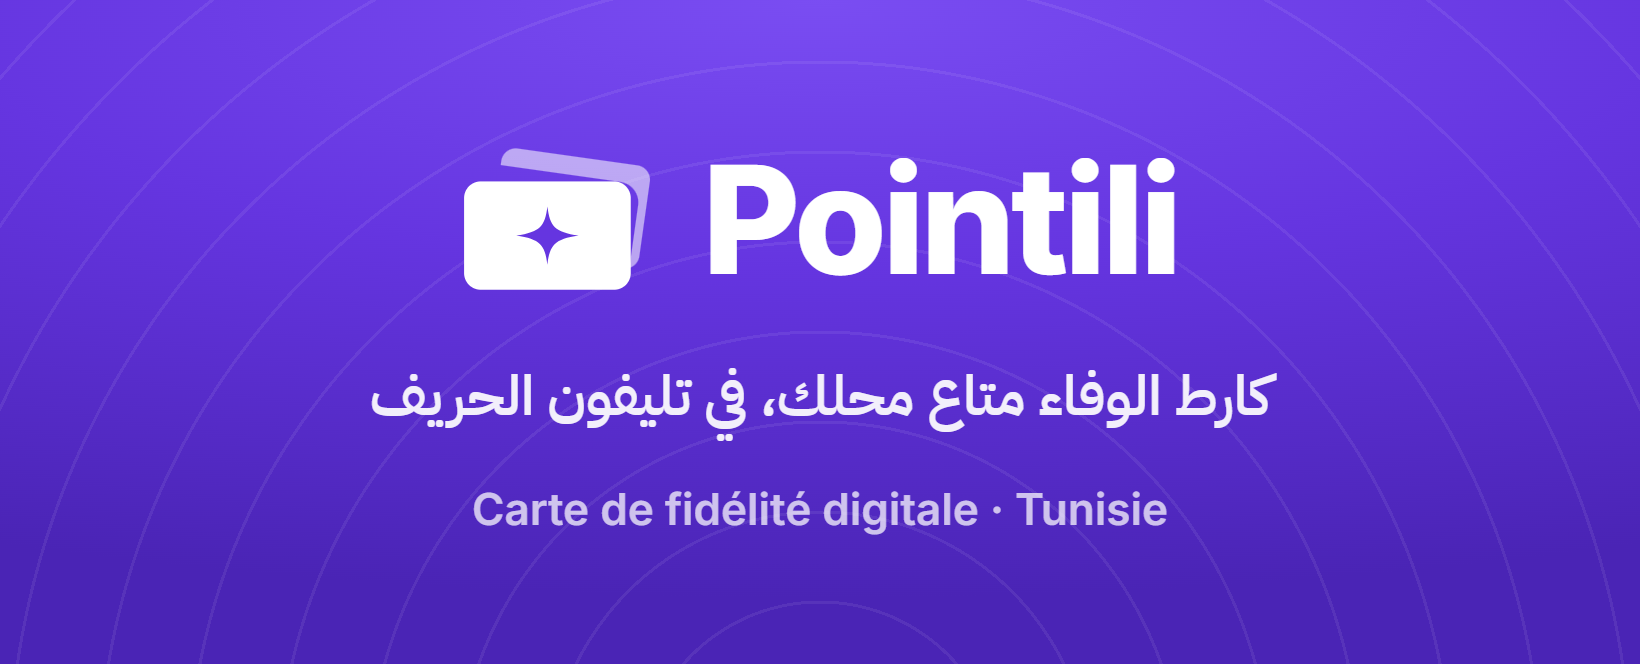
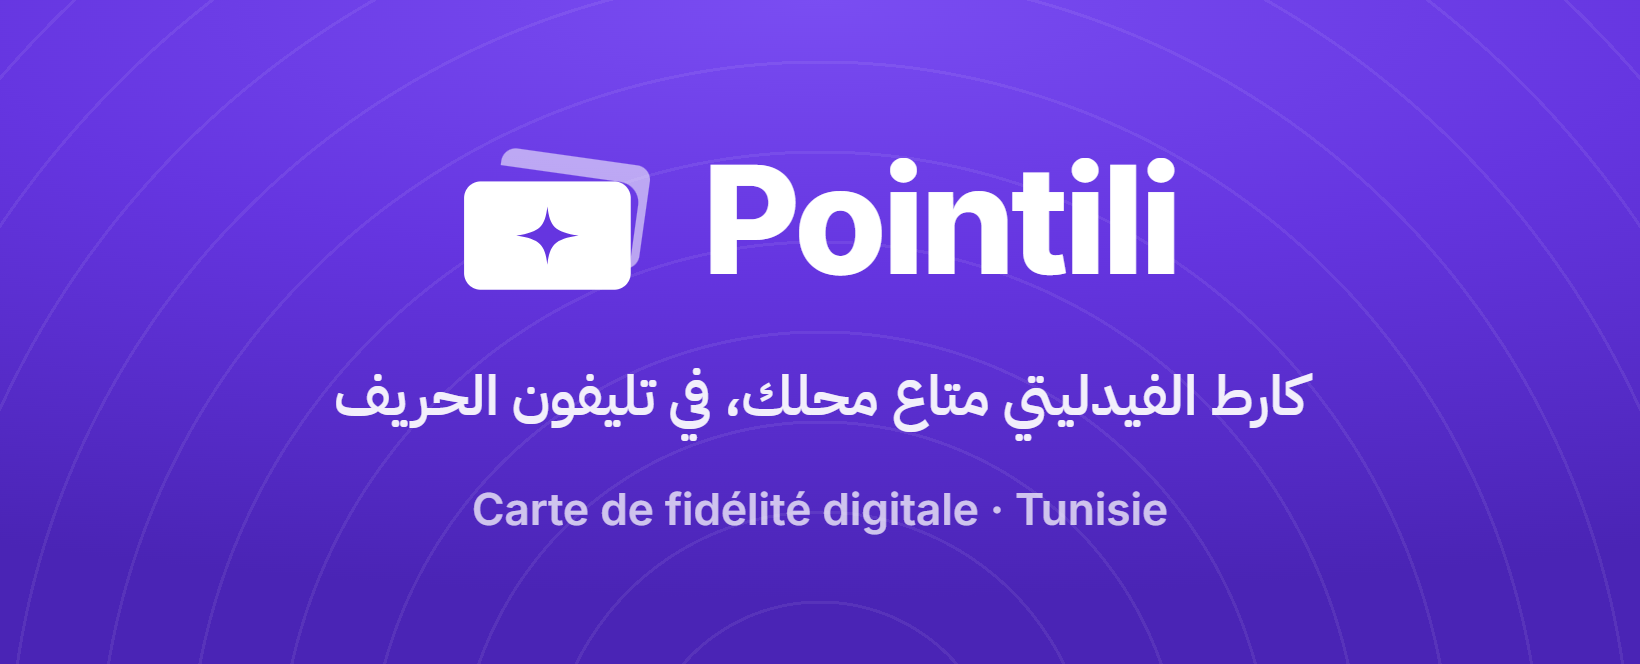
The card is «الفيدليتي» everywhere, never «الوفاء»
The user's rule, 24 September: a Tunisian says كارط الفيدليتي, the
French loanword, and الوفاء is not to be written again. So every
Tunisian string in the app (28 of them: the hero badge, titles, the
poster, the empty states, the error lines, the default card name
«فيدليتي {name}»), the carousel template's footer strip, C1's second
slide, the reel kit's end card, the caption maker and the Facebook cover
now say it. PLAN.md's old «كارط الوفاء partout» is reversed in place.

Changed region(s): [[0.1866, 0.5422, 0.8085, 0.6627]]

diff --git a/lib/i18n/messages/marketing.ts b/lib/i18n/messages/marketing.ts
@@ -154,11 +154,11 @@ export const marketing = ns({
   },
   tn: {
     meta: {
-      homeTitle: "Pointili — كارطات وفاء ديجيتال للقهاوي والمطاعم والصالونات",
+      homeTitle: "Pointili — كارطات فيدليتي ديجيتال للقهاوي والمطاعم والصالونات",
       homeDescription: "خلّي حرفاءك يرجعولك ديما. ورّي كود QR في الكونتوار: يلمّو التامبونات في التليفون ويرجعو ياخذو الكادو متاعهم.",
       howDescription: "المحل يورّي كود Pointili اللي يتبدّل، الحريف يسكانيه بالتليفون، وكل مرّة تزيدلو تامبون باش يوصل للكادو. كيفاش تخدم في أربع خطوات.",
       pricingDescription: "زوز عروض بسيطة في Pointili: {six} د.ت لـ 6 شهور ولا {year} د.ت في العام. وإحنا نجهّزولك كل شي.",
-      appDescription: "كارطات وفاء ديجيتال للقهاوي والمطاعم والصالونات والحوانت. الحريف يسكاني كود QR يتبدّل، يلمّ التامبونات وياخو كوادو.",
+      appDescription: "كارطات فيدليتي ديجيتال للقهاوي والمطاعم والصالونات والحوانت. الحريف يسكاني كود QR يتبدّل، يلمّ التامبونات وياخو كوادو.",
     },
     a11y: {
       mainNav: "التنقّل الرئيسي",
@@ -166,7 +166,7 @@ export const marketing = ns({
     },
     hero: {
       badge: "بلا أبليكاسيون",
-      badgeText: "كارطات وفاء للمحلات",
+      badgeText: "كارطات فيدليتي للمحلات",
       title: "خلّي أول مرّة تولّي عادة.",
       subtitle: "كود QR في الكونتوار. كارط تامبونات في تليفونهم. كوادو ترجّعهم ليك.",
       seeHow: "شوف كيفاش تخدم",
@@ -196,7 +196,7 @@ export const marketing = ns({
     },
     features: {
       eyebrow: "علاش Pointili",
-      title: "كل شي يلزمك في كارط الوفاء.",
+      title: "كل شي يلزمك في كارط الفيدليتي.",
       secureTitle: "ما ينفعش معاه التصوير",
       secureText: "الكود يتبدّل بعد كل سكاني. كود متنقّل ما يعطي حتى تامبون.",
       brandTitle: "الهوية متاعك",
@@ -282,7 +282,7 @@ export const marketing = ns({
       fairInstallText: "زيد Pointili للإيكران متاع التليفون، في Android كيما في iPhone.",
     },
     showcase: {
-      heroAlt: "محل قهوة يورّي كود Pointili في الكونتوار، وتليفون الحريف يورّي تامبون تزاد في كارط الوفاء متاعو.",
+      heroAlt: "محل قهوة يورّي كود Pointili في الكونتوار، وتليفون الحريف يورّي تامبون تزاد في كارط الفيدليتي متاعو.",
       scanForStamp: "سكاني وخوذ تامبون",
       newCode: "كود جديد بعد {time}",
       stampAdded: "تزاد تامبون",
@@ -293,10 +293,10 @@ export const marketing = ns({
       demoSalon: "صالون ياسمين",
     },
     og: {
-      alt: "Pointili — كارطات وفاء ديجيتال للمحلات",
+      alt: "Pointili — كارطات فيدليتي ديجيتال للمحلات",
       cardBusiness: "قهوة السعادة",
       title: "خلّي حرفاءك يرجعولك ديما",
-      subtitle: "كارطات وفاء ديجيتال للقهاوي والمطاعم والصالونات",
+      subtitle: "كارطات فيدليتي ديجيتال للقهاوي والمطاعم والصالونات",
       tagline: "سكاني · تامبون · كادو",
       cardStamps: "7/10 تامبونات",
       cardReward: "🎁 قهوة بلاش · مازال 3",

diff --git a/lib/i18n/messages/merchant.ts b/lib/i18n/messages/merchant.ts
@@ -251,7 +251,7 @@ export const merchant = ns({
       live: "خدّامة · {customers}",
       welcome: "سؤالين والكارط متاعك جاهزة.",
       ownerOnly: "مولى المحل برك ينجم يبدّل الكارط.",
-      defaultName: "وفاء {name}",
+      defaultName: "فيدليتي {name}",
       addBigger: "زيد كادو ثاني أكبر",
       stampsQuestion: "قداش تامبون؟",
       stampsHint: "أكثر المحلات تاخو 10 — تقريبا كادو في الشهر للحريف الدايم.",
@@ -282,7 +282,7 @@ export const merchant = ns({
       otherNumber: "عدد تامبونات آخر",
       fairPrint: "تبديل الكارط ديما حق: كي تطلب تامبونات أكثر، هذا يمشي على الكارطات الجديدة برك؛ وكي تطلب أقل، يفيد الكل توّا؛ وحتى حد ما يضيّع تامبون.",
       confirmTitle: "تسجّل التبديلات هاذي؟",
-      saved: "كارط الوفاء تسجّلت",
+      saved: "كارط الفيدليتي تسجّلت",
     },
     ideas: {
       cafe: { a: "قهوة بلاش", b: "كابيتشينو بلاش", c: "كرواسون بلاش" },
@@ -368,9 +368,9 @@ export const merchant = ns({
     },
     rewards: {
       subtitle: "شنوّة ياخذو الحرفاء بالتامبونات",
-      noCard: "اعمل كارط الوفاء متاعك قبل",
+      noCard: "اعمل كارط الفيدليتي متاعك قبل",
       noCardBody: "الكادو الرئيسي يتعمل مع الكارط.",
-      createCard: "اعمل كارط الوفاء",
+      createCard: "اعمل كارط الفيدليتي",
       redeemed: p({ one: "تعطى مرة", other: "تعطى {n} مرات" }),
       active: "خدّام",
       paused: "موقّف",
@@ -400,7 +400,7 @@ export const merchant = ns({
     counterQr: {
       subtitle: "طبّعو مرة وحدة، عمرو ما يتبدّل",
       posterTitle1: "سكاني باش تاخو",
-      posterTitle2: "كارط الوفاء متاعنا",
+      posterTitle2: "كارط الفيدليتي متاعنا",
       posterHint: "بكاميرا التليفون · ما تحتاج حتى أبليكاسيون",
       print: "طبّع",
       image: "تصويرة",
@@ -420,7 +420,7 @@ export const merchant = ns({
       fullscreen: "إيكران كامل",
       exitFullscreen: "أخرج من الإيكران الكامل",
       renewPlan: "جدّد العرض",
-      createCard: "اعمل كارط الوفاء",
+      createCard: "اعمل كارط الفيدليتي",
       retrying: "قاعد يعاود يجرّب وحدو…",
       reconnecting: "قاعد يرجع يتصل…",
       stampFlash: "+1 تامبون",

diff --git a/lib/i18n/messages/errors.ts b/lib/i18n/messages/errors.ts
@@ -48,14 +48,14 @@ export const errors = ns({
     already_used: "الكود هذا تستعمل. سكاني الكود اللي ظاهر توّا في الإيكران.",
     already_processed: "السكان هذا تعمل قبل.",
     too_soon: "خذيت تامبون هوني قبل شوية. نتلاقاو في المرّة الجاية!",
-    business_paused: "المحل هذا وقّف برنامج الوفاء متاعو توّا.",
+    business_paused: "المحل هذا وقّف برنامج الفيدليتي متاعو توّا.",
     business_unavailable: "المحل هذا موش موجود في Pointili توّا.",
     own_business: "ما تنجمش تاخو تامبونات في المحل متاعك.",
-    card_inactive: "المحل هذا مازال ما عملش كارط الوفاء متاعو.",
+    card_inactive: "المحل هذا مازال ما عملش كارط الفيدليتي متاعو.",
     not_authenticated: "اعمل كونت Pointili باش تاخو التامبون متاعك.",
     subscription_expired: "الاشتراك متاعك في Pointili فات وقتو.",
     business_suspended: "المحل متاعك موقّف. اتصل بـ Pointili.",
-    no_card: "اعمل كارط الوفاء متاعك قبل كل شي.",
+    no_card: "اعمل كارط الفيدليتي متاعك قبل كل شي.",
     not_merchant: "الصفحة هذي للمحلات.",
     already_has_business: "الكونت هذا عندو محل.",
     invalid_instagram: "اسم الإنستغرام موش صحيح. كان حروف، أرقام، . و _ برك.",

diff --git a/lib/i18n/messages/common.ts b/lib/i18n/messages/common.ts
@@ -70,17 +70,17 @@ export const common = ns({
   },
   tn: {
     pwa: {
-      name: "Pointili — كارطات وفاء",
-      description: "كارطات الوفاء متاعك في التليفون. سكاني الكود في الكونتوار، لمّ التامبونات وخوذ كوادو.",
+      name: "Pointili — كارطات فيدليتي",
+      description: "كارطات الفيدليتي متاعك في التليفون. سكاني الكود في الكونتوار، لمّ التامبونات وخوذ كوادو.",
       scan: "سكاني كود QR",
       scanShort: "سكاني",
       cards: "الكارطات متاعي",
       cardsShort: "كارطات",
     },
     site: {
-      title: "Pointili — كارطات وفاء ديجيتال للمحلات",
+      title: "Pointili — كارطات فيدليتي ديجيتال للمحلات",
       description: "خلّي حرفاءك يرجعولك ديما. يسكانيو الكود متاعك في الكونتوار، يلمّو التامبونات في التليفون وياخذو كوادو. للقهاوي والمطاعم وصالونات الحلاقة والحوانت في تونس.",
-      keywords: "كارط وفاء, كارط تامبون, تامبونات قهوة, كود QR وفاء, برنامج وفاء للمحلات, تونس",
+      keywords: "كارط فيدليتي, كارط تامبون, تامبونات قهوة, كود QR فيدليتي, برنامج فيدليتي للمحلات, تونس",
     },
     save: "سجّل",
     saving: "قاعد يسجّل…",

diff --git a/lib/i18n/messages/customer.ts b/lib/i18n/messages/customer.ts
@@ -106,7 +106,7 @@ export const customer = ns({
   tn: {
     scanQr: "سكاني كود QR",
     howItWorks: "كيفاش يخدم Pointili",
-    noCards: "مازال ما عندك كارط وفاء",
+    noCards: "مازال ما عندك كارط فيدليتي",
 
     home: {
       title: "الرئيسية",
@@ -121,12 +121,12 @@ export const customer = ns({
 
     cards: {
       title: "الكارطات متاعي",
-      count: p({ one: "كارط وفاء واحدة", other: "{n} كارطات وفاء" }),
+      count: p({ one: "كارط فيدليتي واحدة", other: "{n} كارطات فيدليتي" }),
       emptyBody: "الكارط متاعك تبان هوني بعد أول تامبون في محل Pointili.",
     },
 
     card: {
-      title: "كارط الوفاء",
+      title: "كارط الفيدليتي",
       addedTitle: "تزادت الكارط",
       addedBody: "كي تخلّص، سكاني الكود اللي في الإيكران متاع الكونتوار باش تاخو أول تامبون.",
       unlockedTitle: "الكادو تحلّ!",
@@ -197,7 +197,7 @@ export const customer = ns({
     },
 
     loyaltyCard: {
-      aria: "كارط الوفاء متاع {business}: {done} من {total} تامبونات",
+      aria: "كارط الفيدليتي متاع {business}: {done} من {total} تامبونات",
       ariaReward: "، الكادو {reward}",
       ready: "حاضر 🎉",
       toGo: "مازال {n}",

diff --git a/lib/i18n/messages/admin.ts b/lib/i18n/messages/admin.ts
@@ -326,13 +326,13 @@ export const admin = ns({
       stampsTodaySub: "{n} اليوم",
       redemptions: "كوادو تعطات",
       lastStamp: "آخر تامبون",
-      card: "كارط الوفاء",
+      card: "كارط الفيدليتي",
       cardLive: "خدّامة",
       cardPaused: "موقّفة",
       cardRule: "{stamps} تامبونات · الحد: {cooldown} للحريف",
       rewardStamps: "{n} تامبونات",
       rewardOff: "مطفية",
-      noCard: "المحل هذا مازال ما عملش كارط الوفاء متاعو.",
+      noCard: "المحل هذا مازال ما عملش كارط الفيدليتي متاعو.",
       subscriptions: "الاشتراكات",
       noSubscriptions: "مازال ما فماش اشتراكات.",
       subCancelled: "ملغي",
@@ -418,8 +418,8 @@ export const admin = ns({
         business_suspended: "محل توقّف",
         business_activated: "محل رجع يخدم",
         subscription_cancelled: "اشتراك تلغى",
-        card_created: "كارط وفاء تعملت",
-        card_updated: "كارط وفاء تبدّلت",
+        card_created: "كارط فيدليتي تعملت",
+        card_updated: "كارط فيدليتي تبدّلت",
         reward_created: "كادو تزاد",
       },
     },

diff --git a/lib/i18n/messages/nav.ts b/lib/i18n/messages/nav.ts
@@ -51,7 +51,7 @@ export const nav = ns({
       showQr: "ورّي الكود",
       customers: "الحرفاء",
       activity: "الحركة",
-      card: "كارط الوفاء",
+      card: "كارط الفيدليتي",
       counterQr: "كود الكونتوار",
       billing: "الفاكتورة",
       settings: "الريڤلاج",
@@ -80,7 +80,7 @@ export const nav = ns({
       homeAria: "الرئيسية متاع Pointili",
       product: "المنتوج",
       signIn: "الدخول",
-      footerTagline: "كارطات وفاء ديجيتال للقهاوي والمطاعم وصالونات الحلاقة.",
+      footerTagline: "كارطات فيدليتي ديجيتال للقهاوي والمطاعم وصالونات الحلاقة.",
       footerLegal: "© {year} Pointili · معمولة للمحلات في تونس",
     },
   },

diff --git a/social/carousels/template.html b/social/carousels/template.html
@@ -624,7 +624,7 @@
           <div class="glass">${s.screenData ? `<img src="${s.screenData}" alt="">` : picture(null, s.screen)}</div>
         </div>` : ""}
         ${s.pill ? `<div class="scene-pill"><div class="${s.pillStyle === "violet" ? "violet" : ""}">${s.pillIcon ? `<i data-lucide="${esc(s.pillIcon)}"></i>` : ""}<span>${rich(s.pill, s.pillHl)}</span></div></div>` : ""}
-        <div class="strip"><div class="name">${MARK("white")}<span>Pointili</span></div><div class="tag">${esc(s.strip || "كارط الوفاء في تليفون الحريف")}</div></div>
+        <div class="strip"><div class="name">${MARK("white")}<span>Pointili</span></div><div class="tag">${esc(s.strip || "كارط الفيدليتي في تليفون الحريف")}</div></div>
       </section>`,
 
     cta: (s) => `

diff --git a/social/reel/app/index.html b/social/reel/app/index.html
@@ -410,7 +410,7 @@ const PRESETS = {
     shadow: true, preset: "fit", bg: "none",
   },
   "Lower third": {
-    lines: [{ text: "سيف — Pointili", style: "brand" }, { text: "كارط الوفاء في تليفون الحريف", style: "dark" }],
+    lines: [{ text: "سيف — Pointili", style: "brand" }, { text: "كارط الفيدليتي في تليفون الحريف", style: "dark" }],
     size: 46, weight: "600", padx: 30, pady: 12, radius: 14, gap: 8, align: "right", shift: 22,
     shadow: true, preset: "1080x1920", bg: "none",
   },

diff --git a/lib/i18n/messages/ops.ts b/lib/i18n/messages/ops.ts
@@ -268,7 +268,7 @@ export const ops = ns({
       codeInactive: "الكود هذا ما عادش نشيط. قول للحريف يضغط «استعمل الكادو» مرة أخرى.",
     },
     toasts: {
-      loyaltyCardSaved: "كارط الوفاء تسجّلت",
+      loyaltyCardSaved: "كارط الفيدليتي تسجّلت",
       cardDesignSaved: "تصميم الكارط تسجّل",
       rewardActivated: "الكادو تفعّل",
       rewardPaused: "الكادو توقّف",

diff --git a/social/reel/captions.html b/social/reel/captions.html
@@ -348,7 +348,7 @@
     "Lower third": {
       lines: [
         { text: "سيف — Pointili", style: "brand" },
-        { text: "كارط الوفاء في تليفون الحريف", style: "dark" },
+        { text: "كارط الفيدليتي في تليفون الحريف", style: "dark" },
       ],
       size: 46, weight: "600", padx: 30, pady: 12, radius: 14, gap: 8, align: "right",
       shadow: true, preset: "1080x420", bg: "none",

diff --git a/lib/i18n/messages/auth.ts b/lib/i18n/messages/auth.ts
@@ -136,7 +136,7 @@ export const auth = ns({
 
     business: {
       title: "اعمل المحل متاعك",
-      subtitle: "كارط الوفاء متاعك، جاهزة في خمس دقايق.",
+      subtitle: "كارط الفيدليتي متاعك، جاهزة في خمس دقايق.",
       subtitleSignedIn: "داخل بـ {who}.",
       name: "اسم المحل",
       namePlaceholder: "قهوة السعادة",
